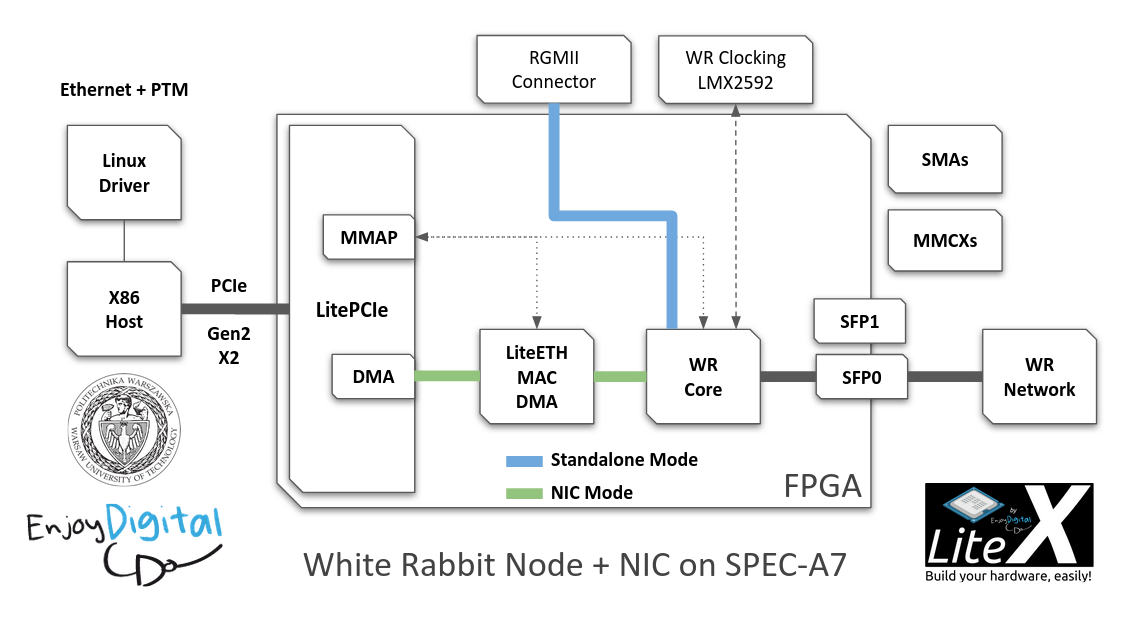
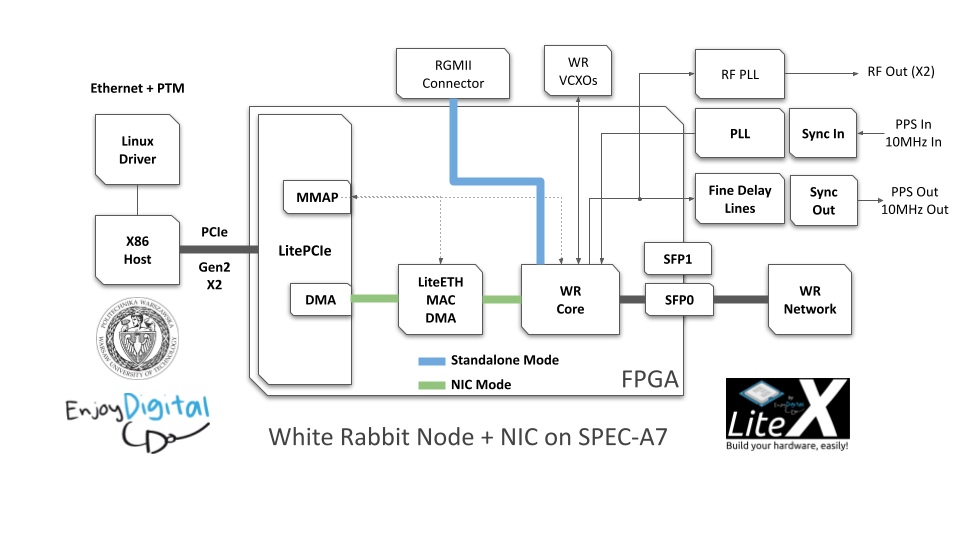
doc/README.md: Update architecture and add description of White Rabbit/PTM demo.

diff --git a/README.md b/README.md
@@ -59,6 +59,93 @@ this project:
 - A JTAG-HS2 Cable.
 - A Logic Analyzer/Scope to observe PPS.
 
+[>  White Rabbit / PTM Demonstration with SPEC-A7 and Intel I225
+----------------------------------------------------------------
+
+In this section, we demonstrate the integration of White Rabbit (WR) synchronization with PCIe
+Precision Time Measurement (PTM) using the SPEC-A7 board as a bridge between WR and PCIe systems.
+The experiment validates the propagation of precise timing across a WR network, a PTM-capable host
+system, and an Intel I225 Ethernet controller, with all devices generating synchronized PPS
+signals.
+
+### Experiment Setup
+
+The setup involves the components and connections illustrated in the diagram below:
+
+![White Rabbit / PTM Demonstration with SPEC-A7 and Intel I225](doc/white_rabbit_ptm_demo.png)
+
+1. **White Rabbit ZEN (WR Master):**
+   - Acts as the timing reference, generating a precise PPS signal and distributing WR timing over a
+     WR link.
+
+2. **SPEC-A7 (WR Slave):**
+   - Synchronizes to the WR ZEN via the WR protocol.
+   - Outputs a PPS signal generated from WR timing for direct observation.
+   - Propagates WR timing to the host system via PCIe PTM.
+
+3. **Host System (PTM Capable):**
+   - Synchronizes its `CLOCK_REALTIME` to the WR clock using `phc2sys` and PCIe PTM.
+   - Regulates its clock and propagates the synchronized timing to the Intel I225 controller via
+     PCIe PTM and `phc2sys`.
+
+4. **Intel I225 Controller:**
+   - Receives timing information from the host system via PCIe PTM.
+   - Synchronizes its internal clock using `phc2sys` and generates a PPS signal for direct
+     observation.
+
+5. **Observation:**
+   - The PPS signals from the WR ZEN, SPEC-A7, and Intel I225 are observed using an oscilloscope or
+     logic analyzer to ensure alignment.
+
+### Results
+
+The experiment confirmed correct White Rabbit synchronization and PCIe PTM functionality:
+
+- The PPS signals from the WR ZEN, SPEC-A7, and Intel I225 are aligned.
+- No noticeable drift was observed between the three PPS signals over time, demonstrating successful
+  propagation of precise WR timing across all systems.
+- The use of `phc2sys` ensured accurate regulation of both the host system's `CLOCK_REALTIME` and
+  the Intel I225's internal clock.
+
+This result validates the SPEC-A7's capability to bridge WR and PCIe PTM systems, providing precise
+synchronization to hosts and downstream devices.
+
+### Run the PTM/Intel I225 PPS Demo
+
+Follow these steps to reproduce the demonstration:
+
+#### On WR Zen (used here as WR Master):
+```sh
+# Set WR date to match the Host date.
+wr_date set host
+```
+
+#### On PCIe Host:
+```sh
+cd software
+
+# Enable PPS generation on Intel I225/SPD0 pin.
+cd ./intel_i225_pps.py --enable
+
+# Start phc2sys regulation from Host -> Intel I225.
+sudo phc2sys -s CLOCK_REALTIME -c /dev/ptp0 -O 0 -m
+
+# Start phc2sys regulation from SPEC-A7 -> Host.
+sudo phc2sys -c CLOCK_REALTIME -s /dev/ptp3 -O 0 -m
+```
+
+### Observing the Results
+
+- Use an oscilloscope or logic analyzer to monitor the PPS signals from:
+  1. The WR ZEN (reference timing source).
+  2. The SPEC-A7 board.
+  3. The Intel I225 Ethernet controller.
+
+- Confirm that the three PPS signals are aligned and do not drift over time.
+
+These steps validate the proper integration of White Rabbit and PCIe PTM for precise time
+synchronization across devices.
+
 [> Xilinx PHY workaround / Implementation note
 ----------------------------------------------
 
@@ -214,29 +301,6 @@ litex_server --jtag --jtag-config=openocd_xc7_ft4232.cfg
 LiteScope:
 ```
 litescope_cli --subsampling=16384
-```
-
-[> Run PTM/Intel I225 PPS Demo
-------------------------------
-
-On WR Zen (used here as WR Master):
-```sh
-# Set WR date to Host date.
-wr_date set host
-```
-
-On PCIe Host:
-```sh
-cd software
-
-# Enable PPS generation on Intel I225/SPD0 Pin.
-cd ./intel_i225_pps.py --enable
-
-# Start Host -> Intel I225 phc2sys regulation.
-sudo phc2sys -s CLOCK_REALTIME -c /dev/ptp0 -O 0 -m
-
-# Start SPEC-A7 -> Host phc2sys regulation.
-sudo phc2sys -c CLOCK_REALTIME -s /dev/ptp3 -O 0 -m
 ```
 
 [> SDB
